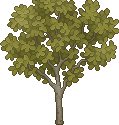
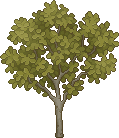
Fix tree crops (full canopy now), revert trees to depth 6.5, halve bush sizes to 2.5x everywhere

diff --git a/main.js b/main.js
@@ -1393,10 +1393,10 @@ class PrototypeScene extends Phaser.Scene {
       .setOrigin(0.5, 1).setScale(2.0).setDepth(this.propDepth);
     this.add.image(3530, WAGON_BASELINE_Y, 'propSunflowers')
       .setOrigin(0.5, 1).setScale(1.8).setDepth(this.propDepth);
-    this.add.image(3640, WAGON_BASELINE_Y, 'propBushLarge')
-      .setOrigin(0.5, 1).setScale(5.0).setDepth(this.propDepth);
-    this.add.image(3760, WAGON_BASELINE_Y, 'propBushSmall')
-      .setOrigin(0.5, 1).setScale(5.5).setDepth(this.propDepth);
+    this.add.image(3700, WAGON_BASELINE_Y, 'propBushLarge')
+      .setOrigin(0.5, 1).setScale(2.5).setDepth(this.propDepth);
+    this.add.image(3820, WAGON_BASELINE_Y, 'propBushSmall')
+      .setOrigin(0.5, 1).setScale(2.5).setDepth(this.propDepth);
 
     this.onionPatchTooltip = this.add.container(0, 0).setDepth(30).setVisible(false);
     const onionTooltipBg = this.add.rectangle(0, 0, 132, 30, 0x1c1209, 0.82).setStrokeStyle(2, 0xdab56a, 0.95);
@@ -3366,12 +3366,12 @@ class CityScene extends PrototypeScene {
     this.add.image(3860 - 220, baseY, 'decorBarrelsDuo').setOrigin(0.5, 1).setScale(s).setDepth(pd);
     this.add.image(3860 + 200, baseY, 'decorCrateLarge').setOrigin(0.5, 1).setScale(s).setDepth(pd);
 
-    // ── Trees between buildings — depth 8: in front of buildings, fully visible ──
+    // ── Trees between buildings — depth 6.5: behind buildings (7), in front of wall (6) ──
     const treeBY = BLACK_TILE_GROUND_Y;
-    this.add.image(1250, treeBY, 'propTree1').setOrigin(0.5, 1).setScale(2.6).setDepth(8);
-    this.add.image(1850, treeBY, 'propTree2').setOrigin(0.5, 1).setScale(2.6).setDepth(8);
-    this.add.image(2960, treeBY, 'propTree1').setOrigin(0.5, 1).setScale(2.75).setDepth(8);
-    this.add.image(3570, treeBY, 'propTree2').setOrigin(0.5, 1).setScale(2.7).setDepth(8);
+    this.add.image(1250, treeBY, 'propTree1').setOrigin(0.5, 1).setScale(2.6).setDepth(6.5);
+    this.add.image(1850, treeBY, 'propTree2').setOrigin(0.5, 1).setScale(2.6).setDepth(6.5);
+    this.add.image(2960, treeBY, 'propTree1').setOrigin(0.5, 1).setScale(2.75).setDepth(6.5);
+    this.add.image(3570, treeBY, 'propTree2').setOrigin(0.5, 1).setScale(2.7).setDepth(6.5);
 
     // ── Statue between House1 and House3 ──
     this.add.image(2410, baseY, 'propStatue').setOrigin(0.5, 1).setScale(3.5).setDepth(pd);
@@ -3380,10 +3380,10 @@ class CityScene extends PrototypeScene {
     this.add.image(670, baseY, 'propTableApples').setOrigin(0.5, 1).setScale(3.5).setDepth(pd);
 
     // ── Bushes at either end of town ──
-    this.add.image(60, BLACK_TILE_GROUND_Y, 'propBushLarge').setOrigin(0.5, 1).setScale(4.5).setDepth(pd);
-    this.add.image(150, BLACK_TILE_GROUND_Y, 'propBushSmall').setOrigin(0.5, 1).setScale(4.5).setDepth(pd);
-    this.add.image(CITY_WORLD_WIDTH - 320, BLACK_TILE_GROUND_Y, 'propBushLarge').setOrigin(0.5, 1).setScale(4.5).setDepth(pd);
-    this.add.image(CITY_WORLD_WIDTH - 230, BLACK_TILE_GROUND_Y, 'propBushSmall').setOrigin(0.5, 1).setScale(4.5).setDepth(pd);
+    this.add.image(60, BLACK_TILE_GROUND_Y, 'propBushLarge').setOrigin(0.5, 1).setScale(2.5).setDepth(pd);
+    this.add.image(150, BLACK_TILE_GROUND_Y, 'propBushSmall').setOrigin(0.5, 1).setScale(2.5).setDepth(pd);
+    this.add.image(CITY_WORLD_WIDTH - 320, BLACK_TILE_GROUND_Y, 'propBushLarge').setOrigin(0.5, 1).setScale(2.5).setDepth(pd);
+    this.add.image(CITY_WORLD_WIDTH - 230, BLACK_TILE_GROUND_Y, 'propBushSmall').setOrigin(0.5, 1).setScale(2.5).setDepth(pd);
   }
 
   createCityDog() {

diff --git a/index.html b/index.html
@@ -41,6 +41,6 @@
 <body>
   <div id="game-wrap"></div>
   <script src="https://cdn.jsdelivr.net/npm/phaser@3.90.0/dist/phaser.min.js"></script>
-  <script src="main.js?v=34"></script>
+  <script src="main.js?v=35"></script>
 </body>
 </html>